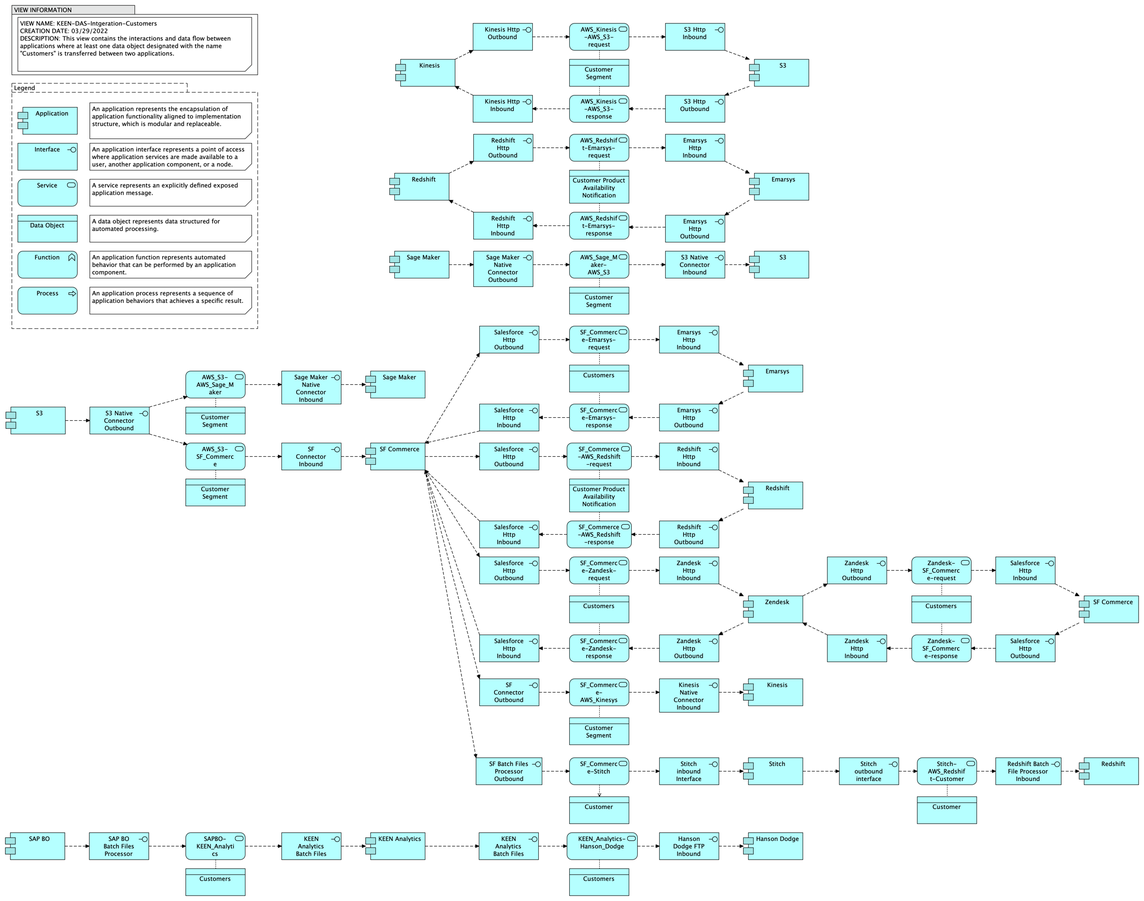
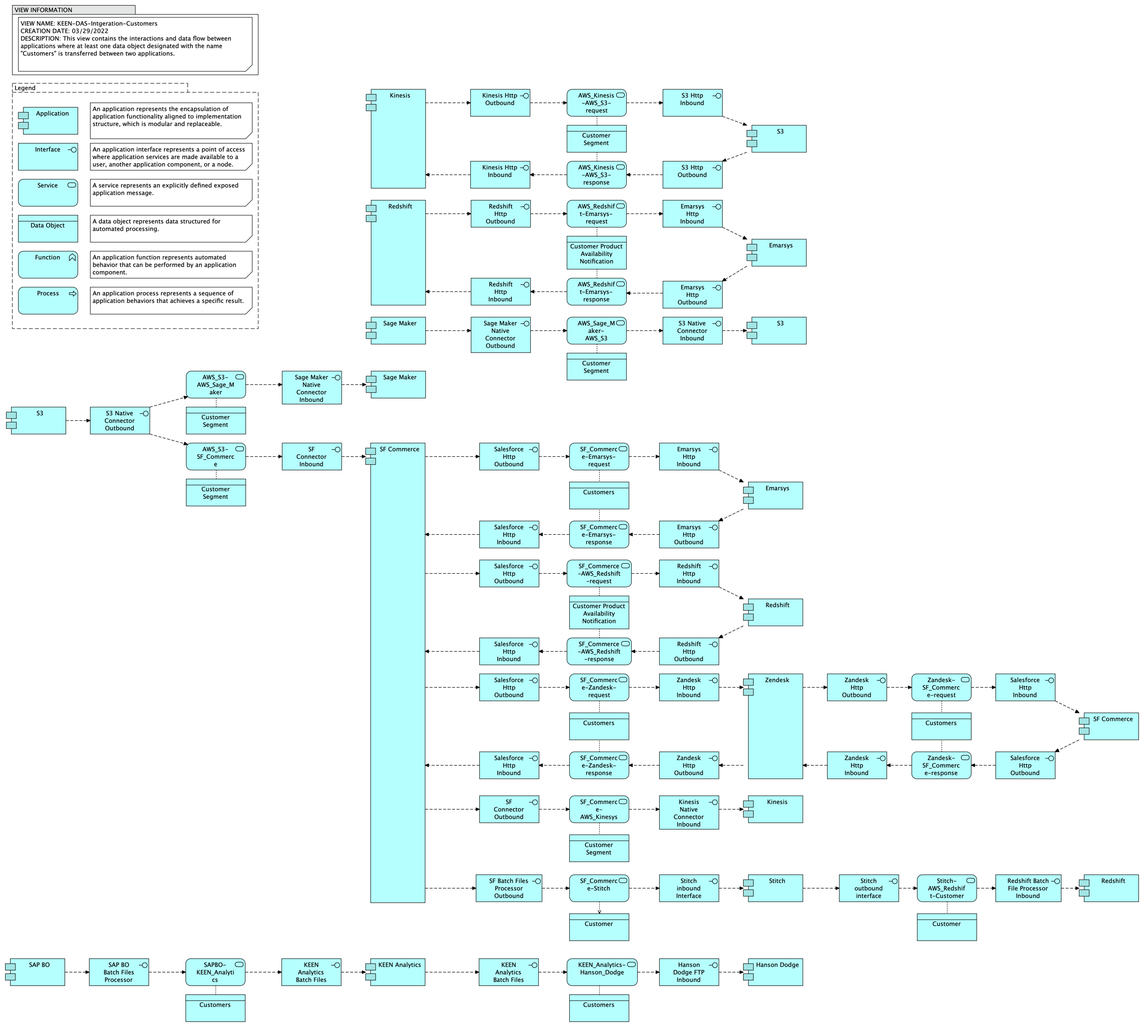
Integrations-Customer update

diff --git a/id-de7bf16a3f834066beb758e2f696b02e/views/id-d96d412ae0104f5fb007fa7924658393.html b/id-de7bf16a3f834066beb758e2f696b02e/views/id-d96d412ae0104f5fb007fa7924658393.html
@@ -34,115 +34,115 @@
 		    <!-- If this is a digram model (has children and no bounds) show the image -->
 			   <img class="diagram" src="../images/id-d96d412ae0104f5fb007fa7924658393.png" alt="KEEN-DAS-Integration-Customers" usemap="#id-d96d412ae0104f5fb007fa7924658393map"/>
 			   <map name="id-d96d412ae0104f5fb007fa7924658393map">
-				  		        <area shape="rect" coords="35,34,504,143" href="../objects/id-1dd1fdc3020c4fe0b1dff52119880360.html" target="element" >
+				  		        <area shape="rect" coords="36,34,505,143" href="../objects/id-1dd1fdc3020c4fe0b1dff52119880360.html" target="element" >
 
-				          <area shape="rect" coords="23,10,516,150" href="../objects/id-a8ff65120e3d4c9282e1188ae139410c.html" target="element" >
-				  		        <area shape="rect" coords="179,574,504,629" href="../objects/id-dfc9131353d04657a6634ceee658d0ce.html" target="element" >
-				  		        <area shape="rect" coords="179,502,504,557" href="../objects/id-93fc1386dfdc4d0cae0900b0f08c3291.html" target="element" >
-				  		        <area shape="rect" coords="179,430,504,485" href="../objects/id-72c994aa256a465eb0134aec04d9f339.html" target="element" >
-				  		        <area shape="rect" coords="179,358,504,413" href="../objects/id-30d157a2f7ca4534baaaf528ec2b1b76.html" target="element" >
-				  		        <area shape="rect" coords="179,286,504,341" href="../objects/id-51d5d4864bff47c4b2056bc2e5ac17fb.html" target="element" >
-				  		        <area shape="rect" coords="179,205,504,278" href="../objects/id-c7faa6c1a433447f8483b8ff9d01997d.html" target="element" >
-				  				<area shape="rect" coords="35,574,155,629" href="../elements/id-12ed4f52f91744698488b4a32abf572a.html"  target="element">
-				  				<area shape="rect" coords="35,502,155,557" href="../elements/id-0095398fcb644178b5a1ead5b0b0169d.html"  target="element">
-				  				<area shape="rect" coords="35,430,155,485" href="../elements/id-64f17ec087974795b385fb76fbf8a754.html"  target="element">
-				  				<area shape="rect" coords="35,358,155,413" href="../elements/id-90a016188091424ba92f600aa40bd62f.html"  target="element">
-				  				<area shape="rect" coords="35,286,155,341" href="../elements/id-4022ea3c335b4bfda17d573b75a57d71.html"  target="element">
-				  				<area shape="rect" coords="35,214,155,269" href="../elements/id-c48020ad33554670862727170864ef06.html"  target="element">
+				          <area shape="rect" coords="24,10,517,150" href="../objects/id-a8ff65120e3d4c9282e1188ae139410c.html" target="element" >
+				  		        <area shape="rect" coords="180,574,505,629" href="../objects/id-dfc9131353d04657a6634ceee658d0ce.html" target="element" >
+				  		        <area shape="rect" coords="180,502,505,557" href="../objects/id-93fc1386dfdc4d0cae0900b0f08c3291.html" target="element" >
+				  		        <area shape="rect" coords="180,430,505,485" href="../objects/id-72c994aa256a465eb0134aec04d9f339.html" target="element" >
+				  		        <area shape="rect" coords="180,358,505,413" href="../objects/id-30d157a2f7ca4534baaaf528ec2b1b76.html" target="element" >
+				  		        <area shape="rect" coords="180,286,505,341" href="../objects/id-51d5d4864bff47c4b2056bc2e5ac17fb.html" target="element" >
+				  		        <area shape="rect" coords="180,205,505,278" href="../objects/id-c7faa6c1a433447f8483b8ff9d01997d.html" target="element" >
+				  				<area shape="rect" coords="36,574,156,629" href="../elements/id-12ed4f52f91744698488b4a32abf572a.html"  target="element">
+				  				<area shape="rect" coords="36,502,156,557" href="../elements/id-0095398fcb644178b5a1ead5b0b0169d.html"  target="element">
+				  				<area shape="rect" coords="36,430,156,485" href="../elements/id-64f17ec087974795b385fb76fbf8a754.html"  target="element">
+				  				<area shape="rect" coords="36,358,156,413" href="../elements/id-90a016188091424ba92f600aa40bd62f.html"  target="element">
+				  				<area shape="rect" coords="36,286,156,341" href="../elements/id-4022ea3c335b4bfda17d573b75a57d71.html"  target="element">
+				  				<area shape="rect" coords="36,214,156,269" href="../elements/id-c48020ad33554670862727170864ef06.html"  target="element">
 
-				  		<area shape="rect" coords="23,166,516,658" href="../elements/id-73ec62e4ebe64ff2bbd552d318424fae.html"  target="element">
-				  		<area shape="rect" coords="179,814,299,869" href="../elements/id-3ce43b33197d44edbbcf8f15c798e4f2.html"  target="element">
-				  		<area shape="rect" coords="563,742,683,809" href="../elements/id-8052e53410e448f6b0da0213de9999e7.html"  target="element">
-				  		<area shape="rect" coords="1319,1358,1439,1426" href="../elements/id-41c4ef4139f14cc8a22f84feff5d99a8.html"  target="element">
-				  		<area shape="rect" coords="1331,46,1451,101" href="../elements/id-ffb58f88a19f4dfa8d639ad92a8723d8.html"  target="element">
-				  		<area shape="rect" coords="1331,190,1451,245" href="../elements/id-1af7abbae7a540a785df607ad2729db1.html"  target="element">
-				  		<area shape="rect" coords="946,190,1066,245" href="../elements/id-5f0fc8c5fa814b0e831e7c2e432b3657.html"  target="element">
-				  		<area shape="rect" coords="946,46,1066,101" href="../elements/id-18655861fec24ce986a26b4e9aa3cb0a.html"  target="element">
-				  		<area shape="rect" coords="952,1516,1085,1571" href="../elements/id-40dbe0c9f9974dafb663e0c9e404a0f2.html"  target="element">
-				  		<area shape="rect" coords="1992,1516,2124,1571" href="../elements/id-edbcc7c48360483797c4889d39db214d.html"  target="element">
-				  		<area shape="rect" coords="2159,1516,2279,1571" href="../elements/id-824e39c81b2b40deb654db3952ecaa16.html"  target="element">
-				  		<area shape="rect" coords="1679,1516,1799,1571" href="../elements/id-551b807e59d443108e9f6f0b86367a78.html"  target="element">
-				  		<area shape="rect" coords="1319,1516,1439,1571" href="../elements/id-d94f57df59ff4a8da43b20d37794121e.html"  target="element">
-				  		<area shape="rect" coords="1487,1516,1607,1571" href="../elements/8cdfed76-23d5-40b7-9cdc-da19f6673421.html"  target="element">
-				  		<area shape="rect" coords="1139,1594,1259,1649" href="../elements/id-d95335948d4b46e6a087ba917c0b2ed7.html"  target="element">
-				  		<area shape="rect" coords="1139,1516,1259,1571" href="../elements/id-9a8a5f9ebe0a4eeab133cd378d67c13a.html"  target="element">
-				  		<area shape="rect" coords="563,1666,683,1721" href="../elements/id-cac059849fe14030a7194c63cc65bbf3.html"  target="element">
-				  		<area shape="rect" coords="178,1666,298,1721" href="../elements/id-d72925cbad1f4c84b00f49e1047f89de.html"  target="element">
-				  		<area shape="rect" coords="10,1666,130,1721" href="../elements/38ed8d3c-4d90-44da-bbda-11f43b0c91c1.html"  target="element">
-				  		<area shape="rect" coords="1319,1666,1439,1721" href="../elements/id-9283dbedcda248b08e318c804e225724.html"  target="element">
-				  		<area shape="rect" coords="1487,1666,1607,1721" href="../elements/31e03858-a8bd-4369-81c7-bb82547ed7a3.html"  target="element">
-				  		<area shape="rect" coords="958,1666,1078,1721" href="../elements/id-f0d39f7819554227917046f7aa804c30.html"  target="element">
-				  		<area shape="rect" coords="731,1666,851,1721" href="../elements/id-4fb47bc3f8584b02ae3313b3eaeda55b.html"  target="element">
-				  		<area shape="rect" coords="1487,1358,1607,1413" href="../elements/id-b4a0e58cec8244dda2666a5fdcd10dde.html"  target="element">
-				  		<area shape="rect" coords="1992,1270,2112,1325" href="../elements/id-034cf681231f40d8bdd76b338aab81b3.html"  target="element">
-				  		<area shape="rect" coords="1992,1114,2112,1169" href="../elements/id-577580773f954e35b6cf190f0c9634d2.html"  target="element">
-				  		<area shape="rect" coords="2159,1192,2279,1247" href="../elements/id-98d822f8e4bd4d5bb14c2776738e09cf.html"  target="element">
-				  		<area shape="rect" coords="1655,1270,1775,1325" href="../elements/id-a3bde21fd3cd448c9997e7f24679a59e.html"  target="element">
-				  		<area shape="rect" coords="1655,1114,1775,1169" href="../elements/id-5c43568095a043b2ab8e011ac6b7cced.html"  target="element">
-				  		<area shape="rect" coords="1319,1270,1439,1325" href="../elements/id-5c43568095a043b2ab8e011ac6b7cced.html"  target="element">
-				  		<area shape="rect" coords="1319,1114,1439,1169" href="../elements/id-a3bde21fd3cd448c9997e7f24679a59e.html"  target="element">
-				  		<area shape="rect" coords="1487,1192,1607,1247" href="../elements/fc289a2a-8a36-409d-90cf-898f1088ff76.html"  target="element">
-				  		<area shape="rect" coords="1319,1042,1439,1097" href="../elements/id-cf4d755f365d43a18e1fe23b1ecdf2f2.html"  target="element">
-				  		<area shape="rect" coords="1319,886,1439,941" href="../elements/id-3513221f163043dcbcdaf3a359aa4b91.html"  target="element">
-				  		<area shape="rect" coords="1487,964,1607,1019" href="../elements/id-824e39c81b2b40deb654db3952ecaa16.html"  target="element">
-				  		<area shape="rect" coords="1319,808,1439,863" href="../elements/id-0ab683c23e15480aac57cc8bd368c8fd.html"  target="element">
-				  		<area shape="rect" coords="1319,652,1439,707" href="../elements/id-0278d1358f204873bf356b086685bb18.html"  target="element">
-				  		<area shape="rect" coords="1487,730,1607,785" href="../elements/68456de8-2e14-4843-ab0d-73cf9cfa3de7.html"  target="element">
-				  		<area shape="rect" coords="959,1270,1079,1325" href="../elements/id-577580773f954e35b6cf190f0c9634d2.html"  target="element">
-				  		<area shape="rect" coords="959,1114,1079,1169" href="../elements/id-034cf681231f40d8bdd76b338aab81b3.html"  target="element">
-				  		<area shape="rect" coords="959,1358,1079,1413" href="../elements/id-796dcc2e8d164d738f0b0a47a6777cdf.html"  target="element">
-				  		<area shape="rect" coords="959,808,1079,863" href="../elements/id-577580773f954e35b6cf190f0c9634d2.html"  target="element">
-				  		<area shape="rect" coords="959,652,1079,707" href="../elements/id-034cf681231f40d8bdd76b338aab81b3.html"  target="element">
+				  		<area shape="rect" coords="24,166,517,658" href="../elements/id-73ec62e4ebe64ff2bbd552d318424fae.html"  target="element">
+				  		<area shape="rect" coords="180,814,300,869" href="../elements/id-3ce43b33197d44edbbcf8f15c798e4f2.html"  target="element">
+				  		<area shape="rect" coords="564,742,684,809" href="../elements/id-8052e53410e448f6b0da0213de9999e7.html"  target="element">
+				  		<area shape="rect" coords="1319,1592,1439,1660" href="../elements/id-41c4ef4139f14cc8a22f84feff5d99a8.html"  target="element">
+				  		<area shape="rect" coords="1326,178,1446,233" href="../elements/id-ffb58f88a19f4dfa8d639ad92a8723d8.html"  target="element">
+				  		<area shape="rect" coords="1326,322,1446,377" href="../elements/id-1af7abbae7a540a785df607ad2729db1.html"  target="element">
+				  		<area shape="rect" coords="941,322,1061,377" href="../elements/id-5f0fc8c5fa814b0e831e7c2e432b3657.html"  target="element">
+				  		<area shape="rect" coords="941,178,1061,233" href="../elements/id-18655861fec24ce986a26b4e9aa3cb0a.html"  target="element">
+				  		<area shape="rect" coords="952,1750,1085,1805" href="../elements/id-40dbe0c9f9974dafb663e0c9e404a0f2.html"  target="element">
+				  		<area shape="rect" coords="1992,1750,2124,1805" href="../elements/id-edbcc7c48360483797c4889d39db214d.html"  target="element">
+				  		<area shape="rect" coords="2159,1750,2279,1805" href="../elements/id-824e39c81b2b40deb654db3952ecaa16.html"  target="element">
+				  		<area shape="rect" coords="1679,1750,1799,1805" href="../elements/id-551b807e59d443108e9f6f0b86367a78.html"  target="element">
+				  		<area shape="rect" coords="1319,1750,1439,1805" href="../elements/id-d94f57df59ff4a8da43b20d37794121e.html"  target="element">
+				  		<area shape="rect" coords="1487,1750,1607,1805" href="../elements/8cdfed76-23d5-40b7-9cdc-da19f6673421.html"  target="element">
+				  		<area shape="rect" coords="1139,1828,1259,1883" href="../elements/id-d95335948d4b46e6a087ba917c0b2ed7.html"  target="element">
+				  		<area shape="rect" coords="1139,1750,1259,1805" href="../elements/id-9a8a5f9ebe0a4eeab133cd378d67c13a.html"  target="element">
+				  		<area shape="rect" coords="563,1918,683,1973" href="../elements/id-cac059849fe14030a7194c63cc65bbf3.html"  target="element">
+				  		<area shape="rect" coords="178,1918,298,1973" href="../elements/id-d72925cbad1f4c84b00f49e1047f89de.html"  target="element">
+				  		<area shape="rect" coords="10,1918,130,1973" href="../elements/38ed8d3c-4d90-44da-bbda-11f43b0c91c1.html"  target="element">
+				  		<area shape="rect" coords="1319,1918,1439,1973" href="../elements/id-9283dbedcda248b08e318c804e225724.html"  target="element">
+				  		<area shape="rect" coords="1487,1918,1607,1973" href="../elements/31e03858-a8bd-4369-81c7-bb82547ed7a3.html"  target="element">
+				  		<area shape="rect" coords="958,1918,1078,1973" href="../elements/id-f0d39f7819554227917046f7aa804c30.html"  target="element">
+				  		<area shape="rect" coords="731,1918,851,1973" href="../elements/id-4fb47bc3f8584b02ae3313b3eaeda55b.html"  target="element">
+				  		<area shape="rect" coords="1487,1592,1607,1647" href="../elements/id-b4a0e58cec8244dda2666a5fdcd10dde.html"  target="element">
+				  		<area shape="rect" coords="1992,1504,2112,1559" href="../elements/id-034cf681231f40d8bdd76b338aab81b3.html"  target="element">
+				  		<area shape="rect" coords="1992,1348,2112,1403" href="../elements/id-577580773f954e35b6cf190f0c9634d2.html"  target="element">
+				  		<area shape="rect" coords="2159,1426,2279,1481" href="../elements/id-98d822f8e4bd4d5bb14c2776738e09cf.html"  target="element">
+				  		<area shape="rect" coords="1655,1504,1775,1559" href="../elements/id-a3bde21fd3cd448c9997e7f24679a59e.html"  target="element">
+				  		<area shape="rect" coords="1655,1348,1775,1403" href="../elements/id-5c43568095a043b2ab8e011ac6b7cced.html"  target="element">
+				  		<area shape="rect" coords="1319,1504,1439,1559" href="../elements/id-5c43568095a043b2ab8e011ac6b7cced.html"  target="element">
+				  		<area shape="rect" coords="1319,1348,1439,1403" href="../elements/id-a3bde21fd3cd448c9997e7f24679a59e.html"  target="element">
+				  		<area shape="rect" coords="1487,1348,1607,1559" href="../elements/fc289a2a-8a36-409d-90cf-898f1088ff76.html"  target="element">
+				  		<area shape="rect" coords="1319,1276,1439,1331" href="../elements/id-cf4d755f365d43a18e1fe23b1ecdf2f2.html"  target="element">
+				  		<area shape="rect" coords="1319,1120,1439,1175" href="../elements/id-3513221f163043dcbcdaf3a359aa4b91.html"  target="element">
+				  		<area shape="rect" coords="1487,1198,1607,1253" href="../elements/id-824e39c81b2b40deb654db3952ecaa16.html"  target="element">
+				  		<area shape="rect" coords="1319,1042,1439,1097" href="../elements/id-0ab683c23e15480aac57cc8bd368c8fd.html"  target="element">
+				  		<area shape="rect" coords="1319,886,1439,941" href="../elements/id-0278d1358f204873bf356b086685bb18.html"  target="element">
+				  		<area shape="rect" coords="1487,964,1607,1019" href="../elements/68456de8-2e14-4843-ab0d-73cf9cfa3de7.html"  target="element">
+				  		<area shape="rect" coords="959,1504,1079,1559" href="../elements/id-577580773f954e35b6cf190f0c9634d2.html"  target="element">
+				  		<area shape="rect" coords="959,1348,1079,1403" href="../elements/id-034cf681231f40d8bdd76b338aab81b3.html"  target="element">
+				  		<area shape="rect" coords="959,1592,1079,1647" href="../elements/id-796dcc2e8d164d738f0b0a47a6777cdf.html"  target="element">
 				  		<area shape="rect" coords="959,1042,1079,1097" href="../elements/id-577580773f954e35b6cf190f0c9634d2.html"  target="element">
 				  		<area shape="rect" coords="959,886,1079,941" href="../elements/id-034cf681231f40d8bdd76b338aab81b3.html"  target="element">
-				  		<area shape="rect" coords="731,886,851,941" href="../elements/id-98d822f8e4bd4d5bb14c2776738e09cf.html"  target="element">
-				  		<area shape="rect" coords="563,886,683,941" href="../elements/id-f5ed869d62684bbeb9b775d3b651a4f2.html"  target="element">
-				  		<area shape="rect" coords="731,742,851,797" href="../elements/id-c9bd3bdf894f4f20abfaec87d8a8f1cb.html"  target="element">
-				  		<area shape="rect" coords="11,814,131,869" href="../elements/id-40ccf86fcf79444f9b14690be7c5b3f9.html"  target="element">
-				  		<area shape="rect" coords="1499,502,1619,557" href="../elements/id-40ccf86fcf79444f9b14690be7c5b3f9.html"  target="element">
-				  		<area shape="rect" coords="1331,502,1451,557" href="../elements/id-ffaf3da778f54205bdaf1875d6e6b347.html"  target="element">
-				  		<area shape="rect" coords="947,502,1067,574" href="../elements/id-9c8d57781c054e54a7aa18deeff61df3.html"  target="element">
-				  		<area shape="rect" coords="779,502,899,557" href="../elements/id-c9bd3bdf894f4f20abfaec87d8a8f1cb.html"  target="element">
-				  		<area shape="rect" coords="1499,346,1619,401" href="../elements/68456de8-2e14-4843-ab0d-73cf9cfa3de7.html"  target="element">
-				  		<area shape="rect" coords="1331,430,1451,485" href="../elements/id-0ab683c23e15480aac57cc8bd368c8fd.html"  target="element">
-				  		<area shape="rect" coords="1331,268,1451,323" href="../elements/id-0278d1358f204873bf356b086685bb18.html"  target="element">
-				  		<area shape="rect" coords="779,346,899,401" href="../elements/id-824e39c81b2b40deb654db3952ecaa16.html"  target="element">
-				  		<area shape="rect" coords="947,268,1067,323" href="../elements/id-cf4d755f365d43a18e1fe23b1ecdf2f2.html"  target="element">
-				  		<area shape="rect" coords="947,424,1067,479" href="../elements/id-3513221f163043dcbcdaf3a359aa4b91.html"  target="element">
-				  		<area shape="rect" coords="1499,118,1619,173" href="../elements/id-40ccf86fcf79444f9b14690be7c5b3f9.html"  target="element">
-				  		<area shape="rect" coords="791,118,911,173" href="../elements/id-b4a0e58cec8244dda2666a5fdcd10dde.html"  target="element">
-				  		<area shape="rect" coords="1835,1594,1955,1649" href="../elements/id-356354a425334bd7895bd12cf5be0f84.html"  target="element">
-				  		<area shape="rect" coords="1835,1516,1955,1571" href="../elements/id-beb6e6ddaf8a49bfb8462b370c4a8087.html"  target="element">
-				  		<area shape="rect" coords="1139,1436,1259,1491" href="../elements/id-18521e5d860742f99c70cb2e56e295c4.html"  target="element">
-				  		<area shape="rect" coords="1139,1358,1259,1413" href="../elements/id-ba31c90697d14a8b86f340e4cbc0662c.html"  target="element">
-				  		<area shape="rect" coords="1824,1270,1944,1325" href="../elements/id-46d6e677ea7049a48a152c2121c9b1f8.html"  target="element">
-				  		<area shape="rect" coords="1824,1192,1944,1247" href="../elements/id-7e331ce12d86472cb903aa2d3230d505.html"  target="element">
-				  		<area shape="rect" coords="1824,1114,1944,1169" href="../elements/id-7541db934bf74d44af2912dfbd8a501c.html"  target="element">
-				  		<area shape="rect" coords="1139,1270,1259,1325" href="../elements/id-7a01eba6f64f457cade6fbd0a01f1c30.html"  target="element">
-				  		<area shape="rect" coords="1139,1192,1259,1247" href="../elements/id-da4048500f6f49c29cc5fef79e8f808f.html"  target="element">
-				  		<area shape="rect" coords="1139,1114,1259,1169" href="../elements/id-6a332422ff1a4ad893791507e4b8e15b.html"  target="element">
-				  		<area shape="rect" coords="1139,730,1259,785" href="../elements/id-fec1908edaec4a79870a1c55aaa8dc7f.html"  target="element">
-				  		<area shape="rect" coords="1139,808,1259,863" href="../elements/id-b4d482a44cb1440cb7608da1b2d24e9f.html"  target="element">
-				  		<area shape="rect" coords="1139,958,1259,1025" href="../elements/id-5a3d29ceeb4e4dfe9e2e7e9f02a78714.html"  target="element">
-				  		<area shape="rect" coords="1134,1042,1264,1097" href="../elements/id-9be5b6c6bcd844909b4cd08842bd3b76.html"  target="element">
-				  		<area shape="rect" coords="1134,886,1264,941" href="../elements/id-59119a23c7bc4640a203ef194159c437.html"  target="element">
-				  		<area shape="rect" coords="371,1738,491,1793" href="../elements/id-f56984a045ed4c8e9b21967834befe48.html"  target="element">
-				  		<area shape="rect" coords="1139,1738,1259,1793" href="../elements/id-9e46ef4a617c40249e3a142af03241b2.html"  target="element">
-				  		<area shape="rect" coords="1134,1666,1276,1721" href="../elements/id-a050641eb2c047f59981efe2a3737a73.html"  target="element">
-				  		<area shape="rect" coords="371,958,491,1013" href="../elements/id-6f252b2f1893422781c6467849b316aa.html"  target="element">
-				  		<area shape="rect" coords="1139,190,1259,245" href="../elements/id-bf1b0fb3e3ae4c2cb04633f53a972e39.html"  target="element">
-				  		<area shape="rect" coords="1139,424,1259,479" href="../elements/id-58a0e1ec849f4377a7b15fbda91bd439.html"  target="element">
-				  		<area shape="rect" coords="1139,340,1259,407" href="../elements/id-6a5cdeff93454c9ab01769b21151baf9.html"  target="element">
-				  		<area shape="rect" coords="1139,268,1259,323" href="../elements/id-7e4a68c7e5ed4c06ba4c9f08175d35c2.html"  target="element">
-				  		<area shape="rect" coords="371,814,491,869" href="../elements/id-d29c4ba6db9d48ecb78e2fe1846bde55.html"  target="element">
-				  		<area shape="rect" coords="1139,574,1259,629" href="../elements/id-5bb63d74c68a435dbd9ba14cfbd3e5ec.html"  target="element">
-				  		<area shape="rect" coords="1139,118,1259,173" href="../elements/id-34e41d86cd1646a695ad883d2c67554b.html"  target="element">
-				  		<area shape="rect" coords="1139,652,1259,707" href="../elements/id-8e2e685725c54b448b5745b298d85de7.html"  target="element">
-				  		<area shape="rect" coords="371,1666,491,1721" href="../elements/id-0a1504f13b7740f8ba581301c6fd7888.html"  target="element">
-				  		<area shape="rect" coords="1139,502,1259,557" href="../elements/id-75187fc9f142489d86aca3f5f69547ed.html"  target="element">
-				  		<area shape="rect" coords="371,886,491,941" href="../elements/id-762f34b5f6404ca0a72767047672beff.html"  target="element">
-				  		<area shape="rect" coords="371,742,491,797" href="../elements/id-d0285a82e7e34363a7c6b58f95ebad07.html"  target="element">
-				  		<area shape="rect" coords="1139,46,1259,101" href="../elements/id-201ce12d9dcf40a9a250ee18c4b3dc93.html"  target="element">
+				  		<area shape="rect" coords="959,1276,1079,1331" href="../elements/id-577580773f954e35b6cf190f0c9634d2.html"  target="element">
+				  		<area shape="rect" coords="959,1120,1079,1175" href="../elements/id-034cf681231f40d8bdd76b338aab81b3.html"  target="element">
+				  		<area shape="rect" coords="731,886,851,1807" href="../elements/id-98d822f8e4bd4d5bb14c2776738e09cf.html"  target="element">
+				  		<area shape="rect" coords="564,886,684,941" href="../elements/id-f5ed869d62684bbeb9b775d3b651a4f2.html"  target="element">
+				  		<area shape="rect" coords="732,742,852,797" href="../elements/id-c9bd3bdf894f4f20abfaec87d8a8f1cb.html"  target="element">
+				  		<area shape="rect" coords="12,814,132,869" href="../elements/id-40ccf86fcf79444f9b14690be7c5b3f9.html"  target="element">
+				  		<area shape="rect" coords="1494,634,1614,689" href="../elements/id-40ccf86fcf79444f9b14690be7c5b3f9.html"  target="element">
+				  		<area shape="rect" coords="1326,634,1446,689" href="../elements/id-ffaf3da778f54205bdaf1875d6e6b347.html"  target="element">
+				  		<area shape="rect" coords="942,634,1062,706" href="../elements/id-9c8d57781c054e54a7aa18deeff61df3.html"  target="element">
+				  		<area shape="rect" coords="732,634,852,689" href="../elements/id-c9bd3bdf894f4f20abfaec87d8a8f1cb.html"  target="element">
+				  		<area shape="rect" coords="1494,478,1614,533" href="../elements/68456de8-2e14-4843-ab0d-73cf9cfa3de7.html"  target="element">
+				  		<area shape="rect" coords="1326,562,1446,617" href="../elements/id-0ab683c23e15480aac57cc8bd368c8fd.html"  target="element">
+				  		<area shape="rect" coords="1326,400,1446,455" href="../elements/id-0278d1358f204873bf356b086685bb18.html"  target="element">
+				  		<area shape="rect" coords="732,400,852,611" href="../elements/id-824e39c81b2b40deb654db3952ecaa16.html"  target="element">
+				  		<area shape="rect" coords="942,400,1062,455" href="../elements/id-cf4d755f365d43a18e1fe23b1ecdf2f2.html"  target="element">
+				  		<area shape="rect" coords="942,556,1062,611" href="../elements/id-3513221f163043dcbcdaf3a359aa4b91.html"  target="element">
+				  		<area shape="rect" coords="1494,250,1614,305" href="../elements/id-40ccf86fcf79444f9b14690be7c5b3f9.html"  target="element">
+				  		<area shape="rect" coords="732,178,852,377" href="../elements/id-b4a0e58cec8244dda2666a5fdcd10dde.html"  target="element">
+				  		<area shape="rect" coords="1835,1828,1955,1883" href="../elements/id-356354a425334bd7895bd12cf5be0f84.html"  target="element">
+				  		<area shape="rect" coords="1835,1750,1955,1805" href="../elements/id-beb6e6ddaf8a49bfb8462b370c4a8087.html"  target="element">
+				  		<area shape="rect" coords="1139,1670,1259,1725" href="../elements/id-18521e5d860742f99c70cb2e56e295c4.html"  target="element">
+				  		<area shape="rect" coords="1139,1592,1259,1647" href="../elements/id-ba31c90697d14a8b86f340e4cbc0662c.html"  target="element">
+				  		<area shape="rect" coords="1824,1504,1944,1559" href="../elements/id-46d6e677ea7049a48a152c2121c9b1f8.html"  target="element">
+				  		<area shape="rect" coords="1824,1426,1944,1481" href="../elements/id-7e331ce12d86472cb903aa2d3230d505.html"  target="element">
+				  		<area shape="rect" coords="1824,1348,1944,1403" href="../elements/id-7541db934bf74d44af2912dfbd8a501c.html"  target="element">
+				  		<area shape="rect" coords="1139,1504,1259,1559" href="../elements/id-7a01eba6f64f457cade6fbd0a01f1c30.html"  target="element">
+				  		<area shape="rect" coords="1139,1426,1259,1481" href="../elements/id-da4048500f6f49c29cc5fef79e8f808f.html"  target="element">
+				  		<area shape="rect" coords="1139,1348,1259,1403" href="../elements/id-6a332422ff1a4ad893791507e4b8e15b.html"  target="element">
+				  		<area shape="rect" coords="1139,964,1259,1019" href="../elements/id-fec1908edaec4a79870a1c55aaa8dc7f.html"  target="element">
+				  		<area shape="rect" coords="1139,1042,1259,1097" href="../elements/id-b4d482a44cb1440cb7608da1b2d24e9f.html"  target="element">
+				  		<area shape="rect" coords="1139,1192,1259,1259" href="../elements/id-5a3d29ceeb4e4dfe9e2e7e9f02a78714.html"  target="element">
+				  		<area shape="rect" coords="1134,1276,1264,1331" href="../elements/id-9be5b6c6bcd844909b4cd08842bd3b76.html"  target="element">
+				  		<area shape="rect" coords="1134,1120,1264,1175" href="../elements/id-59119a23c7bc4640a203ef194159c437.html"  target="element">
+				  		<area shape="rect" coords="371,1990,491,2045" href="../elements/id-f56984a045ed4c8e9b21967834befe48.html"  target="element">
+				  		<area shape="rect" coords="1139,1990,1259,2045" href="../elements/id-9e46ef4a617c40249e3a142af03241b2.html"  target="element">
+				  		<area shape="rect" coords="1134,1918,1276,1973" href="../elements/id-a050641eb2c047f59981efe2a3737a73.html"  target="element">
+				  		<area shape="rect" coords="372,958,492,1013" href="../elements/id-6f252b2f1893422781c6467849b316aa.html"  target="element">
+				  		<area shape="rect" coords="1134,322,1254,377" href="../elements/id-bf1b0fb3e3ae4c2cb04633f53a972e39.html"  target="element">
+				  		<area shape="rect" coords="1134,556,1254,611" href="../elements/id-58a0e1ec849f4377a7b15fbda91bd439.html"  target="element">
+				  		<area shape="rect" coords="1134,472,1254,539" href="../elements/id-6a5cdeff93454c9ab01769b21151baf9.html"  target="element">
+				  		<area shape="rect" coords="1134,400,1254,455" href="../elements/id-7e4a68c7e5ed4c06ba4c9f08175d35c2.html"  target="element">
+				  		<area shape="rect" coords="372,814,492,869" href="../elements/id-d29c4ba6db9d48ecb78e2fe1846bde55.html"  target="element">
+				  		<area shape="rect" coords="1134,706,1254,761" href="../elements/id-5bb63d74c68a435dbd9ba14cfbd3e5ec.html"  target="element">
+				  		<area shape="rect" coords="1134,250,1254,305" href="../elements/id-34e41d86cd1646a695ad883d2c67554b.html"  target="element">
+				  		<area shape="rect" coords="1139,886,1259,941" href="../elements/id-8e2e685725c54b448b5745b298d85de7.html"  target="element">
+				  		<area shape="rect" coords="371,1918,491,1973" href="../elements/id-0a1504f13b7740f8ba581301c6fd7888.html"  target="element">
+				  		<area shape="rect" coords="1134,634,1254,689" href="../elements/id-75187fc9f142489d86aca3f5f69547ed.html"  target="element">
+				  		<area shape="rect" coords="372,886,492,941" href="../elements/id-762f34b5f6404ca0a72767047672beff.html"  target="element">
+				  		<area shape="rect" coords="372,742,492,797" href="../elements/id-d0285a82e7e34363a7c6b58f95ebad07.html"  target="element">
+				  		<area shape="rect" coords="1134,178,1254,233" href="../elements/id-201ce12d9dcf40a9a250ee18c4b3dc93.html"  target="element">
 
 			   </map>
 
